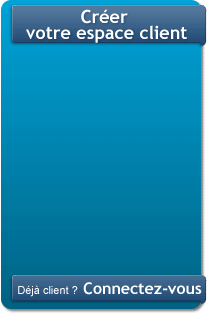
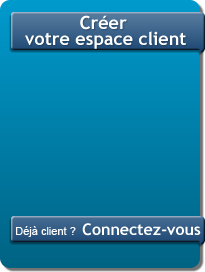
skin, home: Add new home box backgrounds

diff --git a/ui/root/style.css b/ui/root/style.css
@@ -141,13 +141,13 @@ div#page {
 #home-container #box-auth {
   background: url("/ui/iscrib/images/home-box.png") no-repeat scroll left top transparent;
   bottom: 20px;
-  height: 263px;
+  height: 222px;
   padding-left: 11px;
   padding-right: 18px;
   padding-top: 50px;
   position: absolute;
   right: 0;
-  width: 182px;
+  width: 176px;
 }
 #home-container #box-auth label {
   color: #fff;
@@ -192,12 +192,15 @@ div#page {
 }
 #home-container #box-auth #box-auth-forgotten {
   color: #fff;
+  position: absolute;
+  bottom: 10px;
+  right: 10px;
 }
 #home-container #box-auth #box-auth-already-customer-link {
-  bottom: 13px;
+  bottom: 32px;
   height: 21px;
   position: absolute;
-  right: 5px;
+  right: 1px;
   width: 125px;
 }
 #home-container #box-auth #box-auth-already-customer-link span {
